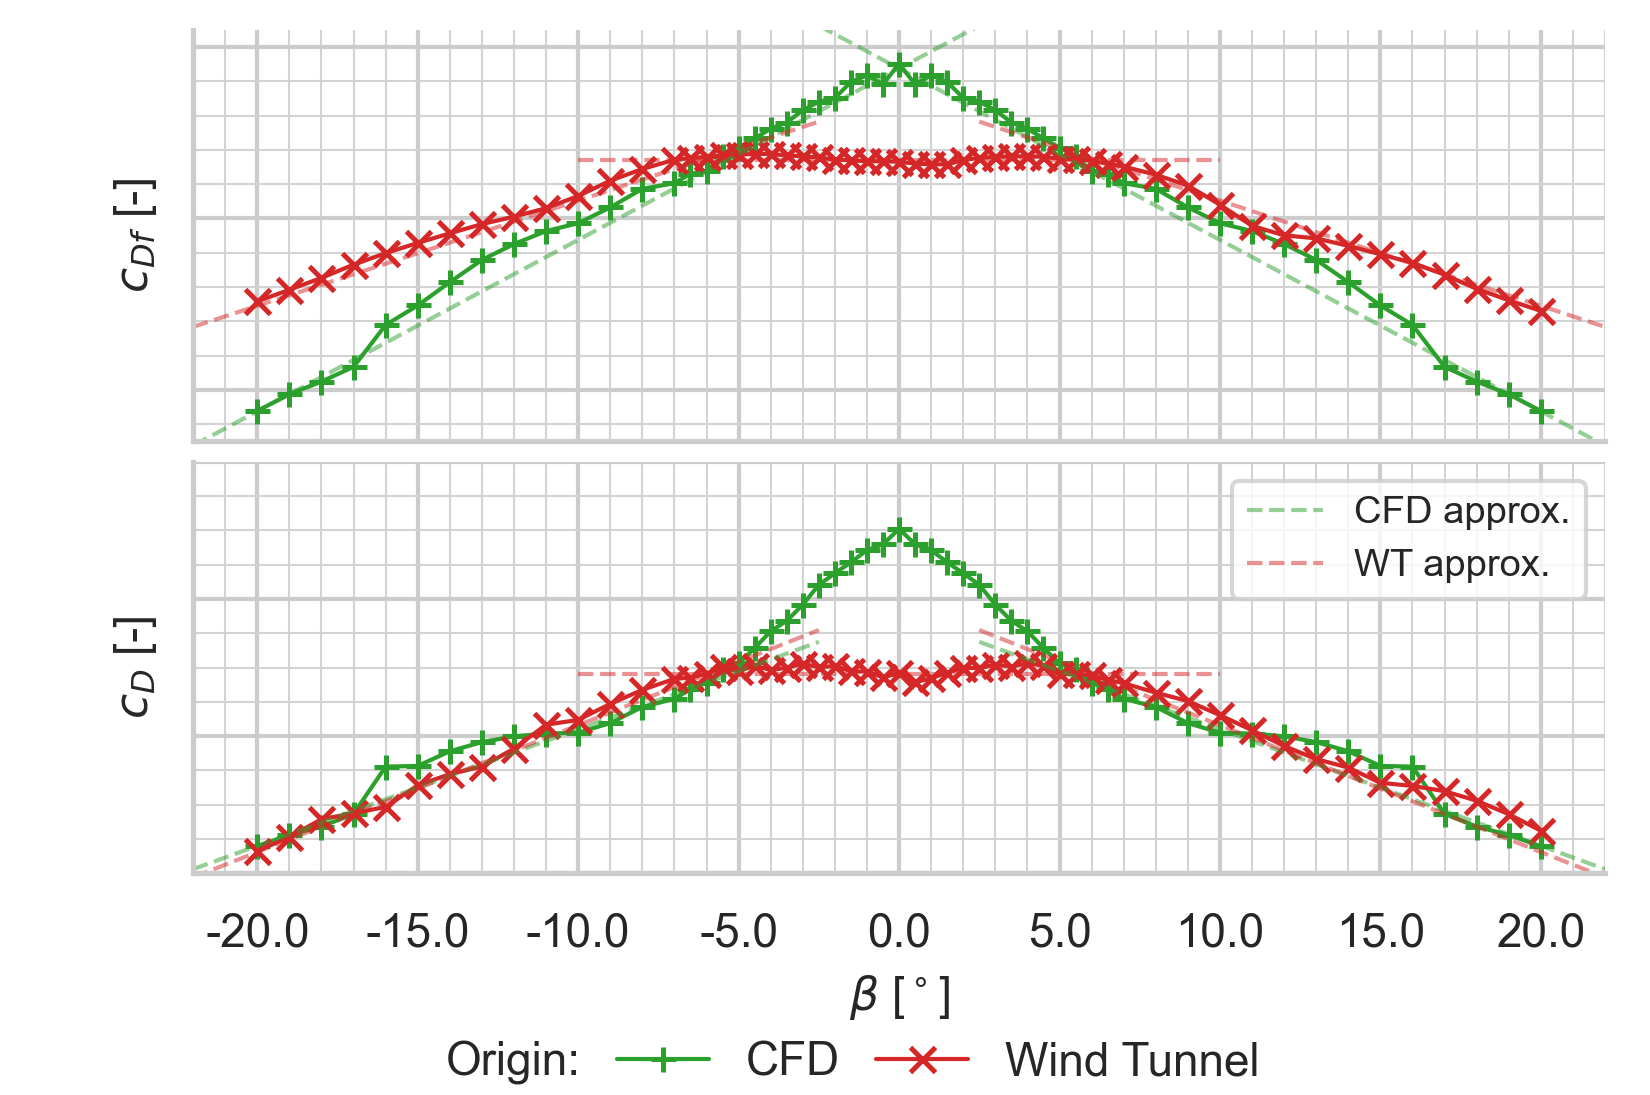
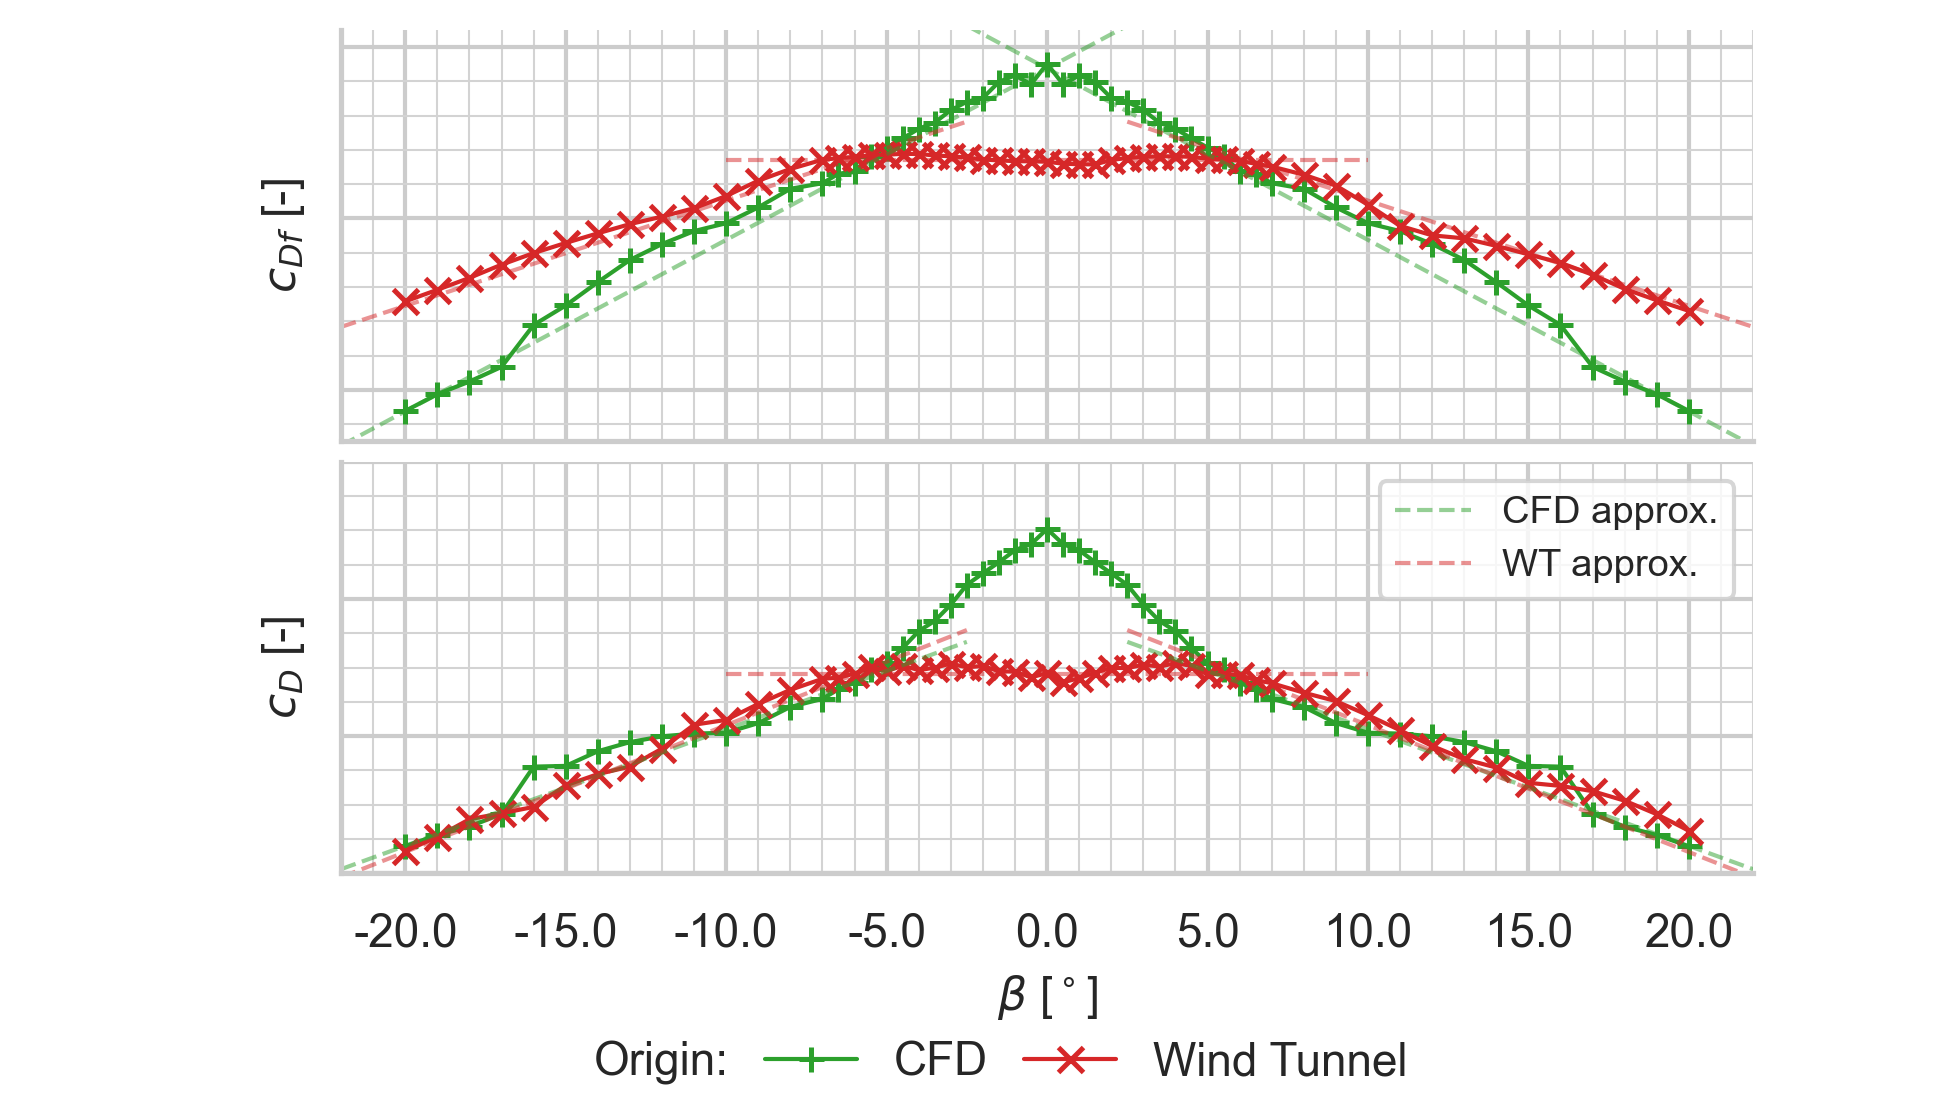
improved images

diff --git a/projects/msc-datatool.html b/projects/msc-datatool.html
@@ -190,14 +190,24 @@
         <span data-lang="de" class="lang-inline">Screenshots / Ausgabe</span>
       </h2>
       <div class="image-grid">
+
+        <div class="detail-image">
+          <img src="/images/msc-datatool/F_compare_RW_GF_noGF_velocity_A0_v0-35_Velocity_mean_c_f.png"
+            alt="Comparison of cdf between BL and no RW-GF">
+        </div>
         <div class="detail-image">
           <img src="/images/msc-datatool/P_compare_WT_CFD_RW_GF_a0_wing_Angle_0.0_Relative_chord_length_mean_c_p.png"
             alt="Comparison of cp between CFD and Windtunnel">
         </div>
         <div class="detail-image">
           <img src="/images/msc-datatool/F_compare_WT_CFD_RW_GF_angle_Angle_mean_c_f.png"
-            alt="Comparison of cp between CFD and Windtunnel">
+            alt="Comparison of cdf cd between CFD and Windtunnel over yaw angles">
         </div>
+        <div class="detail-image">
+          <img src="/images/msc-datatool/P_compare_RW-MP_GF_a0-20_Velocity_29.8_Angle_mean_c_p.png"
+            alt="cp at 5% x/c of the MP Windtunnel over yaw angles">
+        </div>
+
       </div>
     </div>
 

diff --git a/projects/fasttube-imagetool.html b/projects/fasttube-imagetool.html
@@ -203,13 +203,18 @@
         <span data-lang="en" class="active lang-inline">Gallery</span>
         <span data-lang="de" class="lang-inline">Galerie</span>
       </h2>
-
       <div class="image-grid">
         <div class="detail-image">
-          <img src="/images/fasttube-imagetool/SM_single_slice.png" alt="SM image compare tool single slice">
+          <img src="/images/fasttube-imagetool/SM_view.png" alt="SM image compare tool">
         </div>
         <div class="detail-image">
           <img src="/images/fasttube-imagetool/SM_compare.png" alt="SM image compare tool compare">
+        </div>
+        <div class="detail-image">
+          <img src="/images/fasttube-imagetool/SM_single_slice_cpt.png" alt="SM image compare tool single slice cpt">
+        </div>
+        <div class="detail-image">
+          <img src="/images/fasttube-imagetool/SM_single_slice_cp.png" alt="SM image compare tool single slice cp">
         </div>
       </div>
     </div>

diff --git a/projects/msc-thesis.html b/projects/msc-thesis.html
@@ -230,6 +230,9 @@
       </h2>
       <div class="image-grid">
         <div class="detail-image">
+          <img src="/images/msc-thesis/model_WT_smoke.jpg" alt="Windtunnel Model with Smoke Visualization">
+        </div>
+        <div class="detail-image">
           <img src="/images/msc-thesis/WoolTufts_static.png" alt="Wool tufts on model">
         </div>
         <div class="detail-image">
@@ -241,6 +244,10 @@
         <div class="detail-image">
           <img src="/images/msc-thesis/P_compare_WT_CFD_RW_GF_a0_wing_Angle_0.0_Relative_chord_length_mean_c_p.png"
             alt="Comparison of cp between CFD and Windtunnel">
+        </div>
+        <div class="detail-image">
+          <img src="/images/msc-thesis/F_compare_RW_GF_noGF_velocity_A0_v0-35_Velocity_mean_c_f.png"
+            alt="Comparison of cdf between CFD and Windtunnel">
         </div>
       </div>
     </div>

diff --git a/projects/bsc-thesis.html b/projects/bsc-thesis.html
@@ -197,6 +197,9 @@
       </h2>
       <div class="image-grid">
         <div class="detail-image">
+          <img src="/images/bsc-thesis/MS-Messung.jpg" alt="Windtunnel Model with pressure measurement tubes attached">
+        </div>
+        <div class="detail-image">
           <img src="/images/bsc-thesis/Messstrecke.jpg" alt="Windtunnel Model with pressure measurement tubes attached">
         </div>
         <div class="detail-image">
